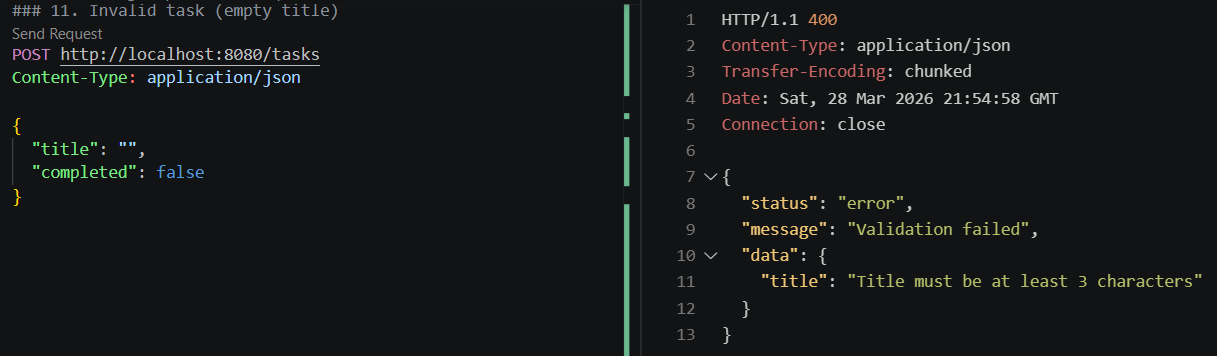
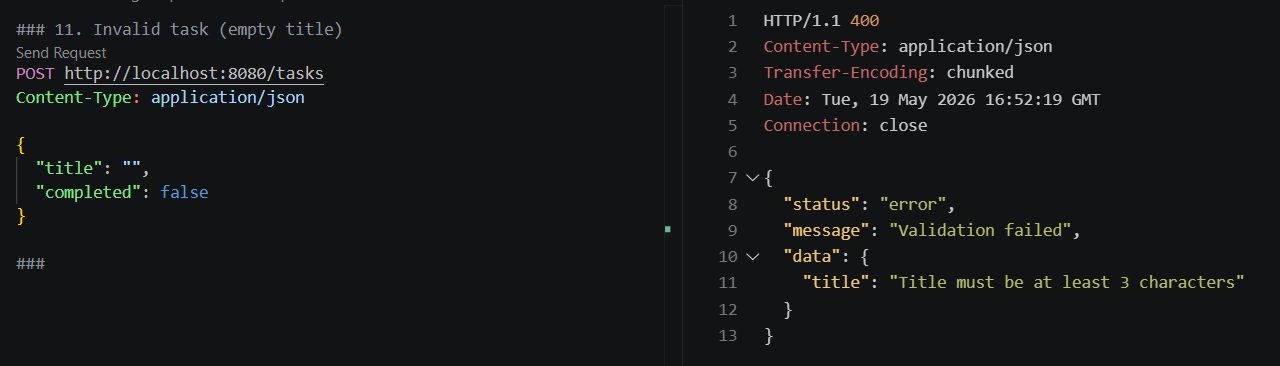
docs: update API screenshots with pagination metadata

diff --git a/README.md b/README.md
@@ -72,11 +72,11 @@ Controller → Service → Repository → Database
 | Method | Endpoint | Description |
 |-------|--------|------------|
 | POST | /tasks | Create task |
-| GET | /tasks | Get all tasks |
+| GET | /tasks | Get paginated tasks |
 | GET | /tasks/{id} | Get task by ID |
 | GET | /tasks?completed=true | Filter completed tasks |
-| GET | /tasks?page=0&size=5 | Get paginated tasks |
-| GET | /tasks?page=0&size=5&sortBy=title&direction=asc | Get sorted tasks |
+| GET | /tasks?page=0&size=5 | Customize pagination |
+| GET | /tasks?page=0&size=5&sortBy=title&direction=asc | Get sorted and paginated tasks |
 | PUT | /tasks/{id} | Update task |
 | DELETE | /tasks/{id} | Delete task |
 
@@ -84,9 +84,9 @@ Controller → Service → Repository → Database
 
 ## API Preview
 
-### Get All Tasks
+### Get Tasks with Pagination
 
-![Get All Tasks](spring-boot/task-manager-api/screenshots/get-all-tasks.png)
+![Get Tasks](spring-boot/task-manager-api/screenshots/get-tasks-pagination.png)
 
 ---
 
@@ -99,12 +99,6 @@ Controller → Service → Repository → Database
 ### Validation Error (400)
 
 ![Validation Error](spring-boot/task-manager-api/screenshots/validation-error.png)
-
----
-
-### Pagination Response
-
-![Pagination Response](spring-boot/task-manager-api/screenshots/pagination-response.png)
 
 ---
 
